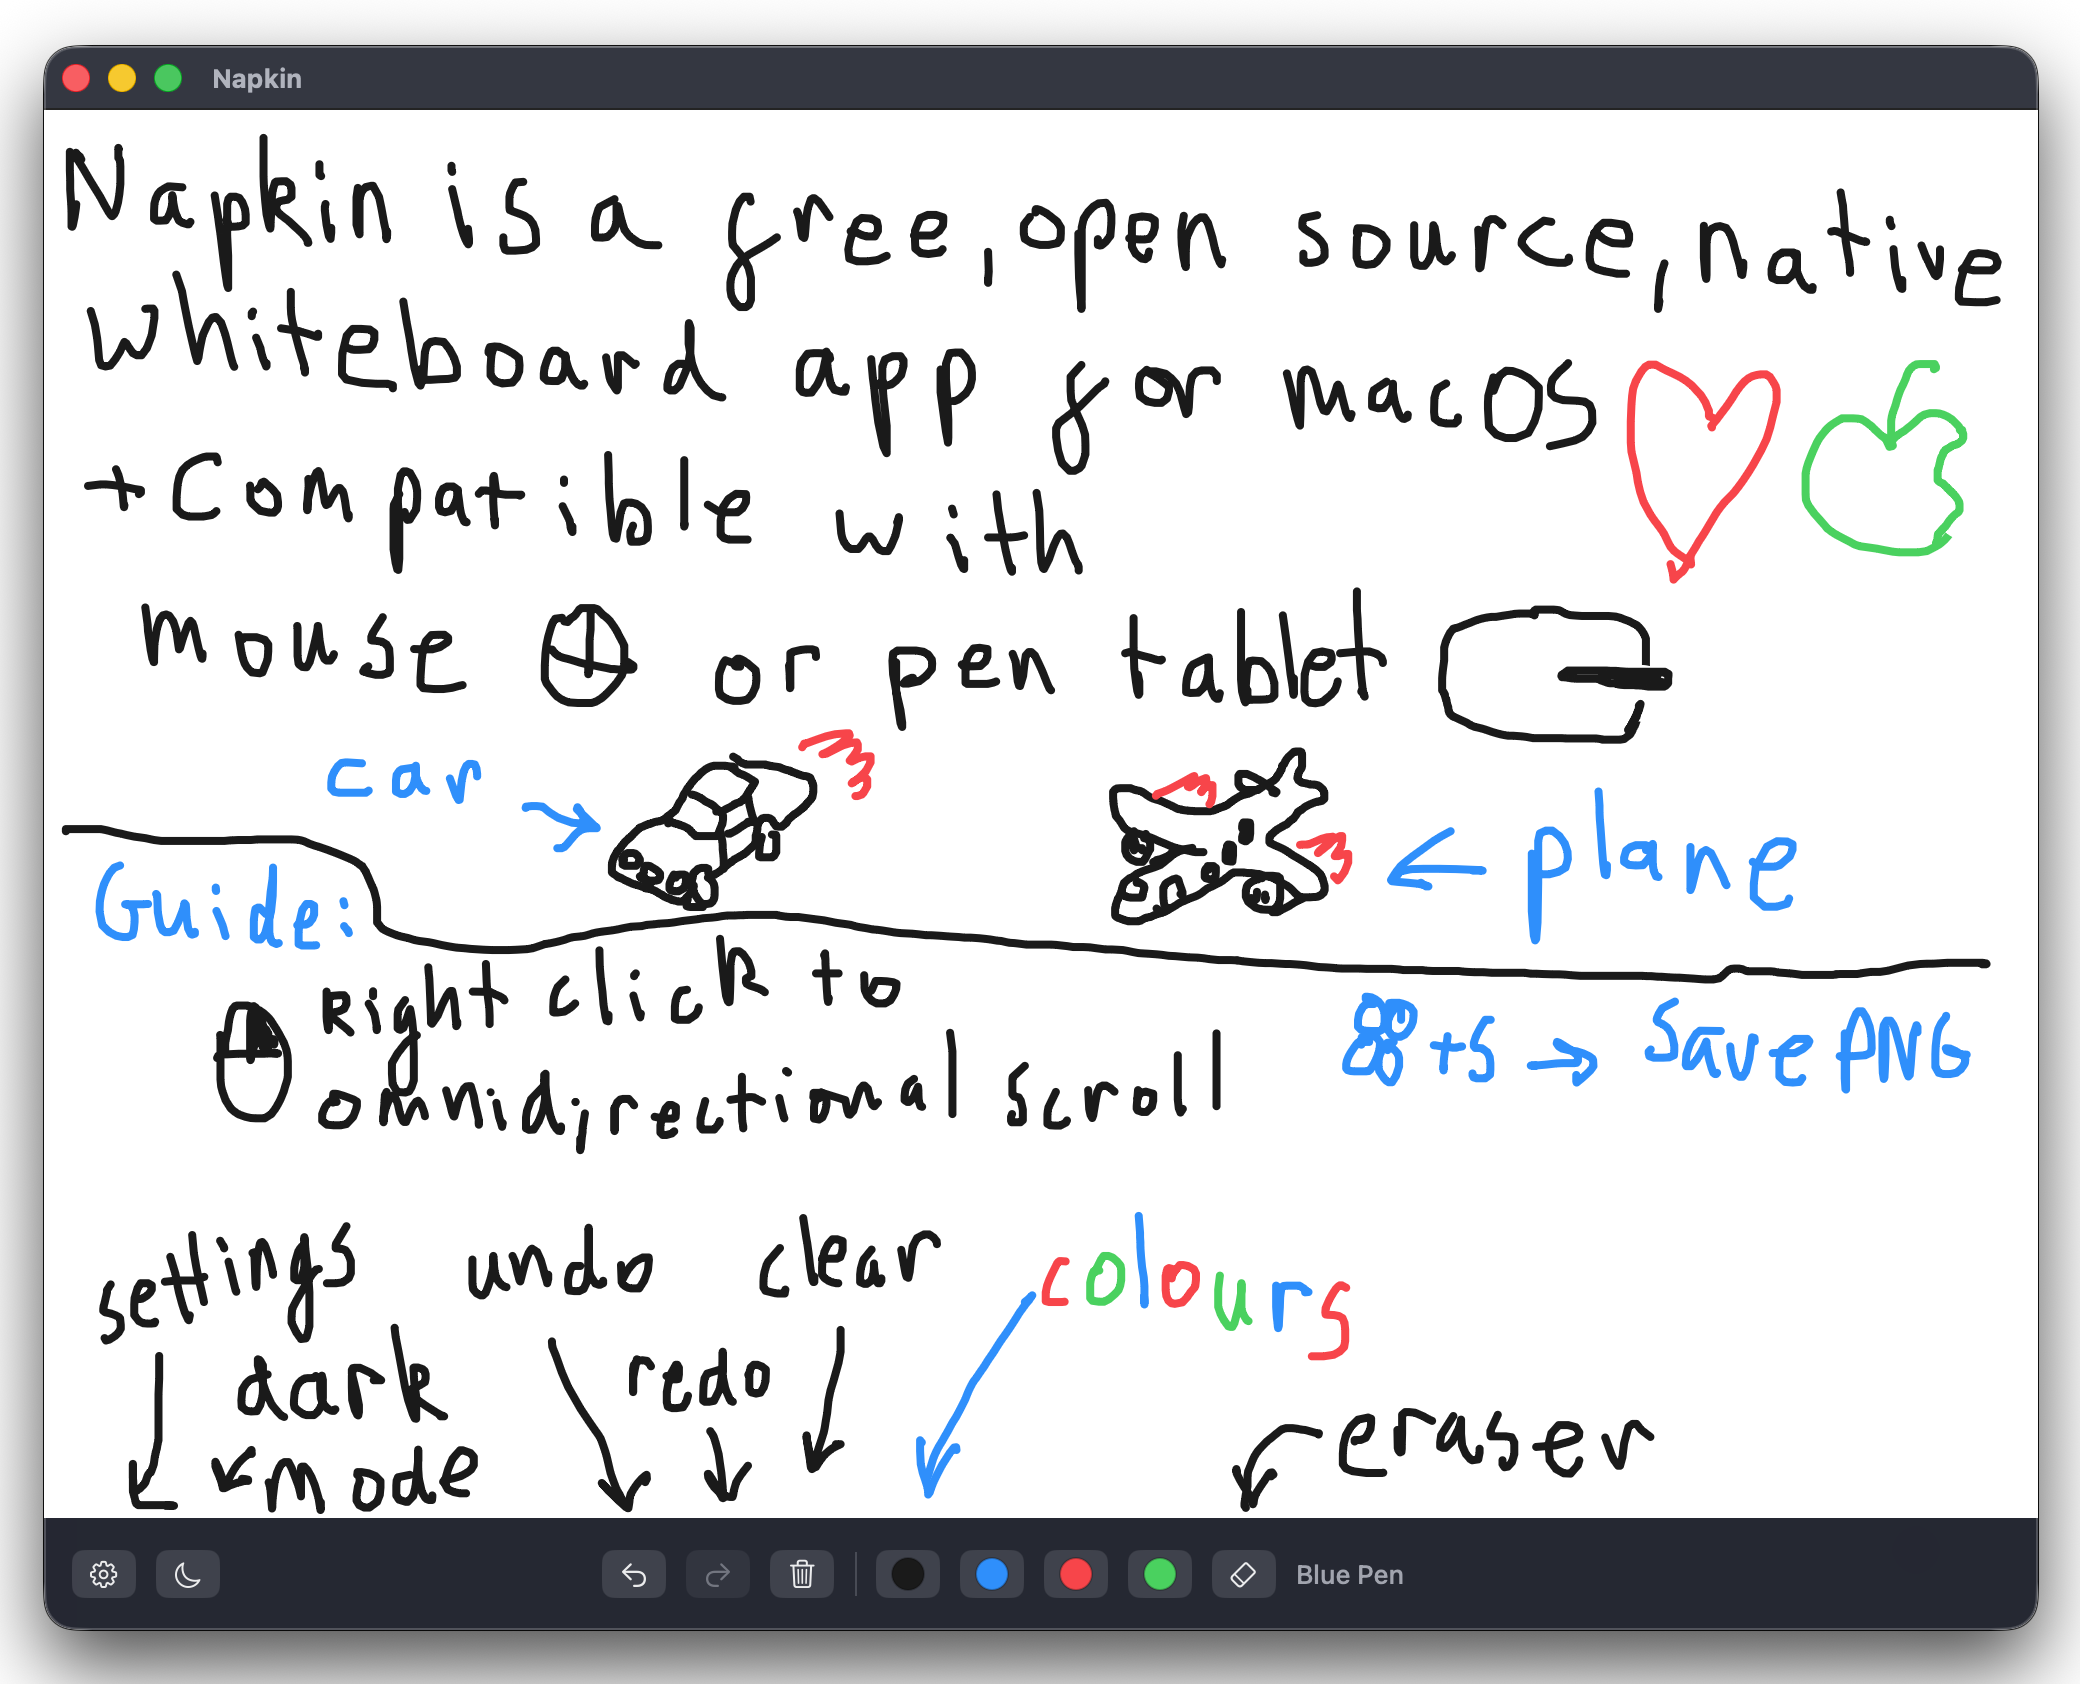
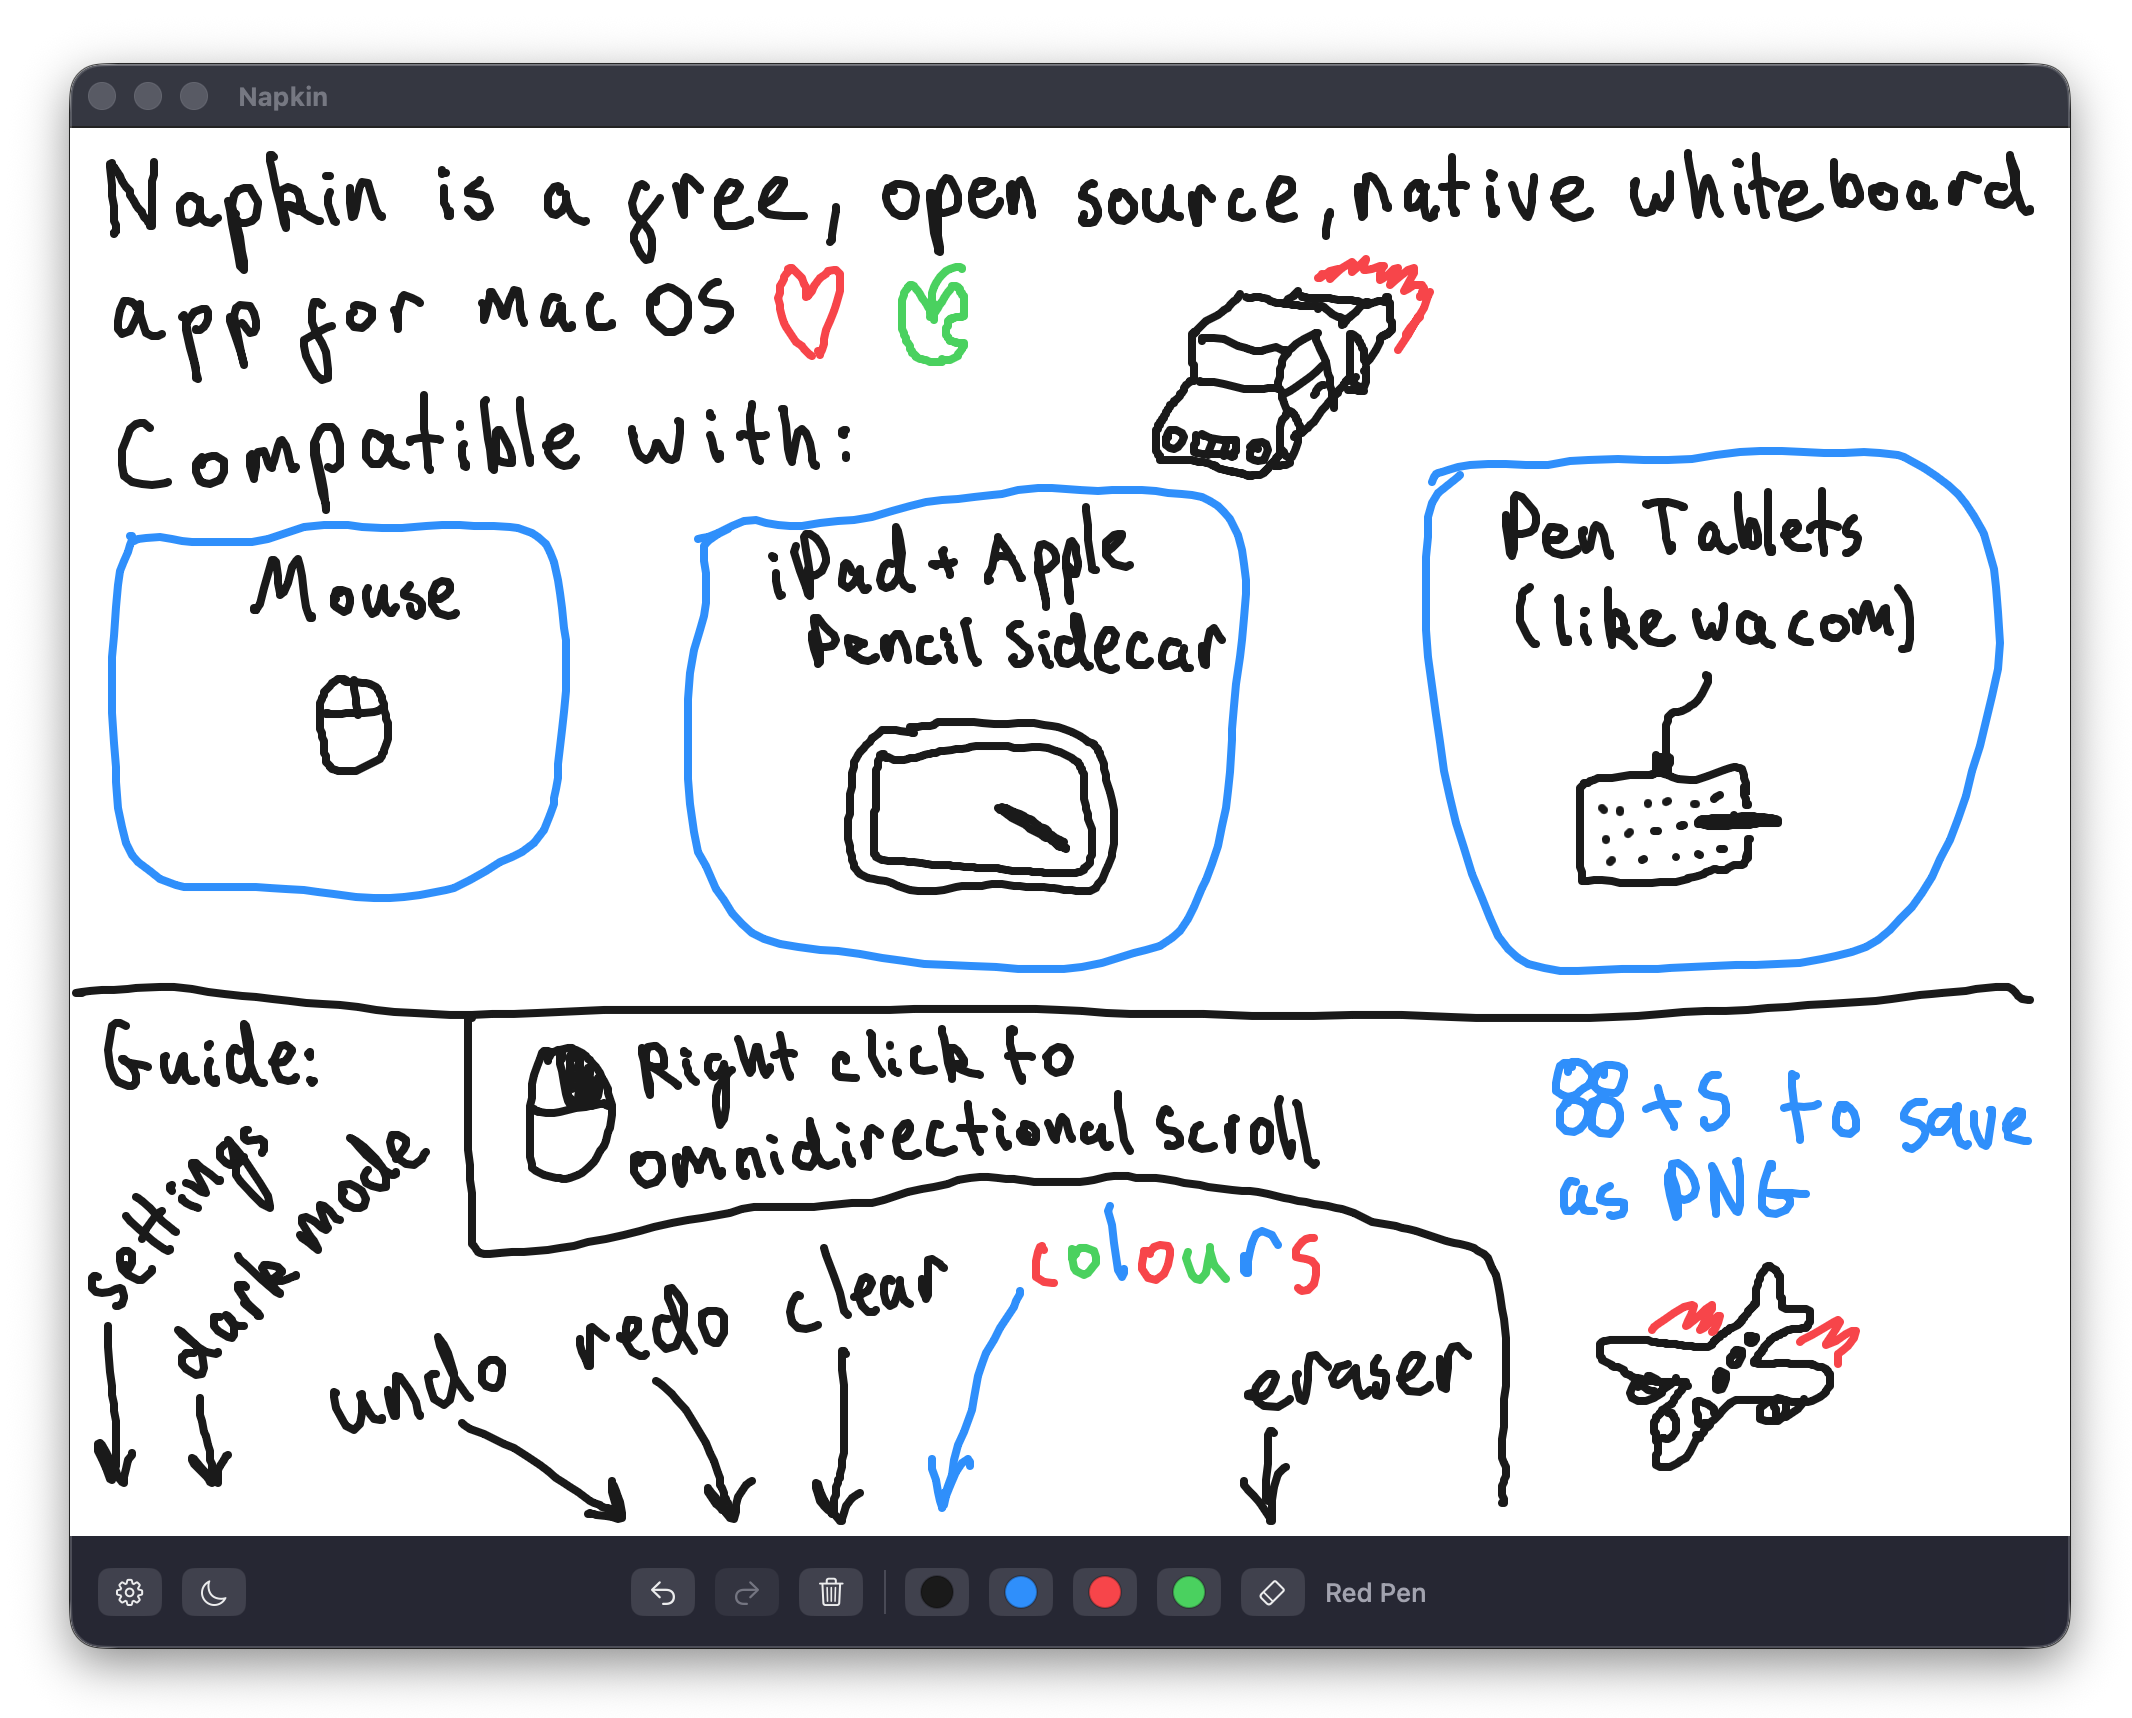
Update README screenshot Sidecar note

Changed region(s): [[0.0, 0.0, 1.0, 1.0], [0.9062, 0.4014, 0.9375, 0.4941]]

diff --git a/README.md b/README.md
@@ -2,7 +2,7 @@
 
 ![Napkin screenshot](screenshot.png)
 
-Napkin is a tiny macOS whiteboard for quick thinking, sketching, and ink-first notes. It gives you a large canvas, simple pen colors, an eraser, undo/redo, clear with undo, image export, and pen-tablet-friendly omnidirectional scrolling.
+Napkin is a tiny macOS whiteboard for quick thinking, sketching, and ink-first notes. It gives you a large canvas, simple pen colors, an eraser, undo/redo, clear with undo, image export, Apple Sidecar support, and pen-tablet-friendly omnidirectional scrolling.
 
 ## Download
 
@@ -26,6 +26,7 @@ You can also right-click `Napkin.app`, choose `Open`, then confirm you want to o
 - Eraser with cursor preview.
 - Undo and redo, including undoing Clear.
 - Export the visible canvas or the full drawn area as PNG.
+- Works with Apple Sidecar for sketching from an iPad.
 - Hold right click or middle click and hover away from the starting point to continuously scroll.
 
 ## Build From Source